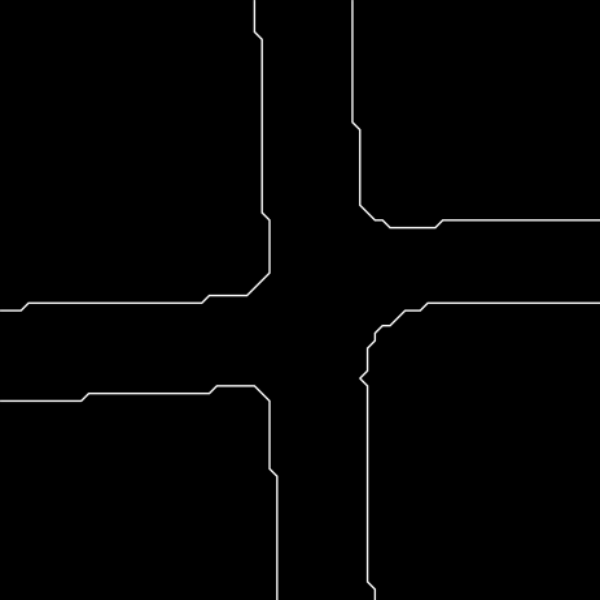
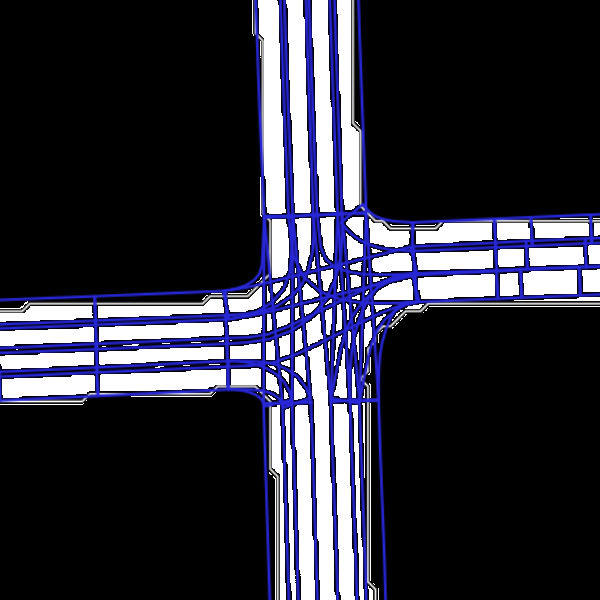
Work on image preprocessing for visual extraction v2

Changed region(s): [[0.0, 0.0, 1.0, 1.0]]

diff --git a/sophie/data_loader/argoverse/map_utils.py b/sophie/data_loader/argoverse/map_utils.py
@@ -413,14 +413,15 @@ def map_generator(seq: np.array, # Past_Observations · Num_agents x 2 (e.g. 200
                   avm,
                   city_name,
                   info, # object list id + num_agents_per_obs
+                  lane_centerlines: Optional[List[np.ndarray]] = None,
                   show: bool = True,
                   smoothen: bool = False) -> None:
 
     plot_local_lane_polygons = True
     plot_local_das = True
     plot_centerlines = True
-    plot_object_trajectories = True
-    plot_object_heads = True
+    plot_object_trajectories = False
+    plot_object_heads = False
 
     xcenter, ycenter = origin_pos[0][0], origin_pos[0][1]
     x_min = xcenter + offset[0]
@@ -496,13 +497,44 @@ def map_generator(seq: np.array, # Past_Observations · Num_agents x 2 (e.g. 200
 
     t0 = time.time()
 
-    if plot_centerlines:
+    # if plot_centerlines:
+    #     lane_centerlines = []
+    #     # Get lane centerlines which lie within the range of trajectories
+    #     for lane_id, lane_props in seq_lane_props.items():
+
+    #         lane_cl = lane_props.centerline
+
+    #         if (
+    #             np.min(lane_cl[:, 0]) < x_max
+    #             and np.min(lane_cl[:, 1]) < y_max
+    #             and np.max(lane_cl[:, 0]) > x_min
+    #             and np.max(lane_cl[:, 1]) > y_min
+    #         ):
+    #             lane_centerlines.append(lane_cl)
+
+    #         for lane_cl in lane_centerlines:
+
+    #             plt.plot(
+    #                 lane_cl[:, 0],
+    #                 lane_cl[:, 1],
+    #                 "-",
+    #                 color="grey",
+    #                 alpha=1,
+    #                 linewidth=1.5,
+    #                 zorder=0,
+    #             )
+
+    if lane_centerlines is None:
+
+        plt.xlim(x_min, x_max)
+        plt.ylim(y_min, y_max)
+
         lane_centerlines = []
         # Get lane centerlines which lie within the range of trajectories
         for lane_id, lane_props in seq_lane_props.items():
 
             lane_cl = lane_props.centerline
-            print("lane id: ", lane_id)
+
             if (
                 np.min(lane_cl[:, 0]) < x_max
                 and np.min(lane_cl[:, 1]) < y_max
@@ -511,17 +543,20 @@ def map_generator(seq: np.array, # Past_Observations · Num_agents x 2 (e.g. 200
             ):
                 lane_centerlines.append(lane_cl)
 
-            for lane_cl in lane_centerlines:
+    #pdb.set_trace()
+    for lane_cl in lane_centerlines:
+        plt.plot(
+            lane_cl[:, 0],
+            lane_cl[:, 1],
+            "-",
+            color="grey",
+            alpha=1,
+            linewidth=1,
+            zorder=0,
+        )
 
-                plt.plot(
-                    lane_cl[:, 0],
-                    lane_cl[:, 1],
-                    "-",
-                    color="grey",
-                    alpha=1,
-                    linewidth=1.5,
-                    zorder=0,
-                )
+    plt.show()
+    pdb.set_trace()
 
     print("Time consumed by plot lane centerlines: ", time.time()-t0)
 
@@ -625,183 +660,9 @@ def map_generator(seq: np.array, # Past_Observations · Num_agents x 2 (e.g. 200
     
     cv2.imshow("full_img",full_img)
 
+    pdb.set_trace()
+
     if show:
         plt.show()
-    pdb.set_trace()
+    # pdb.set_trace()
     return fig, fig2, full_img
-
-def optimized_map_generator(
-    seq: np.array, # Past_Observations · Num_agents x 2 (e.g. 200 x 2)
-    origin_pos,
-    offset,
-    avm,
-    city_name,
-    info, # object list id + num_agents_per_obs
-    show: bool = True,
-    smoothen: bool = False,
-) -> None:
-
-    xcenter, ycenter = origin_pos[0][0], origin_pos[0][1]
-
-    x_min = xcenter + offset[0]
-    x_max = xcenter + offset[1]
-    y_min = ycenter + offset[2]
-    y_max = ycenter + offset[3]
-
-    object_id_list, obs = info
-
-    # Get centerlines from Argoverse Map-API 
-
-    seq_lane_props = avm.city_lane_centerlines_dict[city_name]
-
-    # Get local polygons
-
-    local_lane_polygons = avm.find_local_lane_polygons([x_min, 
-                                                        x_max, 
-                                                        y_min, 
-                                                        y_max], 
-                                                        city_name)
-    
-    # local_lane_polygons = []
-
-    # Get driveable area from Argoverse Map-API 
-    
-    local_das = avm.find_local_driveable_areas([x_min, 
-                                                x_max, 
-                                                y_min, 
-                                                y_max], 
-                                                city_name)
-    local_das = []
-
-    rotation = np.array([0,0,0,1]) # Quaternion with no roation
-    translation = np.array([0,0,0]) # zero translation
-    city_to_egovehicle_se3 = SE3(rotation=quat2rotmat(rotation), translation=translation) # Just as argument, it is not used!
-
-    height = abs(offset[0])
-    width = abs(offset[0])
-    img = np.zeros((height,width,3))#, np.uint8)
-
-    img_aux = optimized_render_bev_labels_mpl(origin_pos,
-                                              img,
-                                              copy.deepcopy(local_lane_polygons),
-                                              copy.deepcopy(local_das),
-                                              )
-
-    curr_folder = os.getcwd()
-    filename = curr_folder + "/hdmap_images/test_image_opencv_3.png"
-    print("filename: ")
-    cv2.imwrite(filename,img_aux)
-
-    pdb.set_trace()
-
-    lane_centerlines = []
-    # Get lane centerlines which lie within the range of trajectories
-    for lane_id, lane_props in seq_lane_props.items():
-
-        lane_cl = lane_props.centerline
-
-        if (
-            np.min(lane_cl[:, 0]) < x_max
-            and np.min(lane_cl[:, 1]) < y_max
-            and np.max(lane_cl[:, 0]) > x_min
-            and np.max(lane_cl[:, 1]) > y_min
-        ):
-            lane_centerlines.append(lane_cl)
-
-    for lane_cl in lane_centerlines:
-        plt.plot(
-            lane_cl[:, 0],
-            lane_cl[:, 1],
-            "-",
-            color="grey",
-            alpha=1,
-            linewidth=1,
-            zorder=0,
-        )
-
-    t0 = time.time()
-
-    color_dict = {"AGENT": (0.0,0.0,1.0,1.0), # Blue (Red when represented in the image)
-                  "AV": (1.0,0.0,0.0,1.0), # Red (Blue when represented in the image)
-                  "OTHERS": (1.0,1.0,1.0,1.0)} # White
-    object_type_tracker: Dict[int, int] = defaultdict(int)
-
-    seq_end = int(len(object_id_list)*20) # TODO manage magic number
-    obs_seq = seq[:seq_end, :] # 200x2
-    obs_seq_list = []
-    # for i in range(object_id_list.shape[0]):
-    #     if object_id_list[i] != -1:
-    #         obs_seq_list.append([obs_seq[np.arange(i,200,obs),:], object_id_list[i]]) # recover trajectories for each obs
-
-    try:
-        for i in range(object_id_list.shape[0]):
-            if object_id_list[i] != -1:
-                obs_seq_list.append([obs_seq[np.arange(i,seq_end,obs),:], object_id_list[i]]) # recover trajectories for each obs
-    except Exception as e:
-        print(e)
-        pdb.set_trace()
-    # Plot all the tracks up till current frame
-
-    for seq_id in obs_seq_list:
-        object_type = int(seq_id[1])
-        seq_rel = seq_id[0]
-
-        object_type = translate_object_type(object_type)
-
-        cor_x = seq_rel[:,0] + xcenter
-        cor_y = seq_rel[:,1] + ycenter
-
-        if smoothen:
-            polyline = np.column_stack((cor_x, cor_y))
-            num_points = cor_x.shape[0] * 3
-            smooth_polyline = interpolate_polyline(polyline, num_points)
-            cor_x = smooth_polyline[:, 0]
-            cor_y = smooth_polyline[:, 1]
-        
-        #pdb.set_trace()
-
-        plt.plot(
-            cor_x,
-            cor_y,
-            "-",
-            color=color_dict[object_type],
-            label=object_type if not object_type_tracker[object_type] else "",
-            alpha=1,
-            linewidth=1,
-            zorder=_ZORDER[object_type],
-        )
-
-        final_x = cor_x[-1]
-        final_y = cor_y[-1]
-
-        if object_type == "AGENT":
-            marker_type = "o"
-            marker_size = 7
-        elif object_type == "OTHERS":
-            marker_type = "o"
-            marker_size = 7
-        elif object_type == "AV":
-            marker_type = "o"
-            marker_size = 7
-
-        plt.plot(
-            final_x,
-            final_y,
-            marker_type,
-            color=color_dict[object_type],
-            label=object_type if not object_type_tracker[object_type] else "",
-            alpha=1,
-            markersize=marker_size,
-            zorder=_ZORDER[object_type],
-        )
-
-        object_type_tracker[object_type] += 1
-
-    plt.show()
-
-    pdb.set_trace()
-
-    plt.axis("off")
-    if show:
-        plt.show()
-    return fig

diff --git a/sophie/data_loader/argoverse/test_map_argoverse/forecasting_map.py b/sophie/data_loader/argoverse/test_map_argoverse/forecasting_map.py
@@ -40,6 +40,7 @@ fg_plt, bg_plt, img_cv = map_utils.map_generator(curr_obs_seq_data,
                               avm, 
                               city_name,
                               (obj_id_list, num_agents_per_obs), 
+                              lane_centerlines=None,
                               show=False, 
                               smoothen=True)
 
